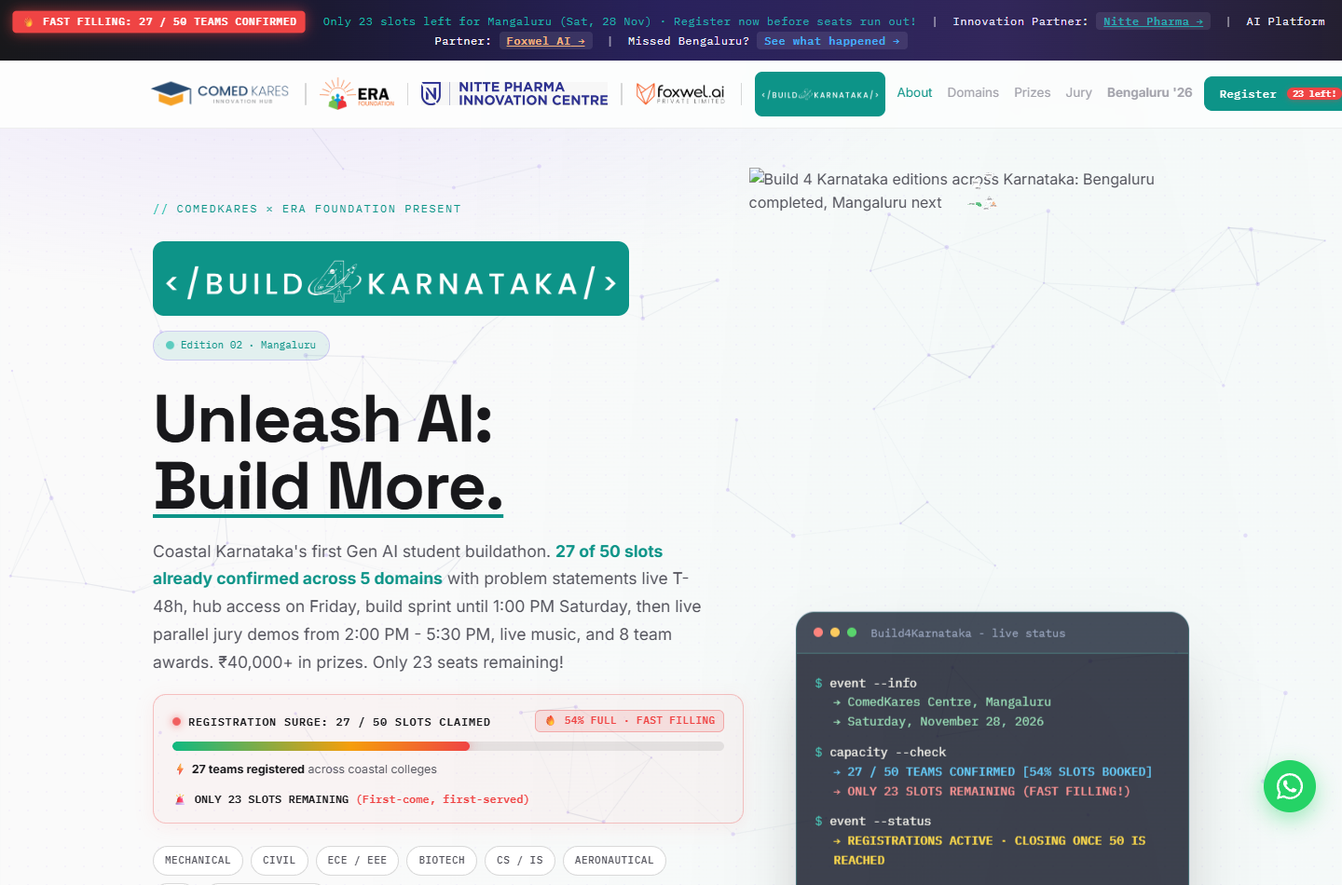
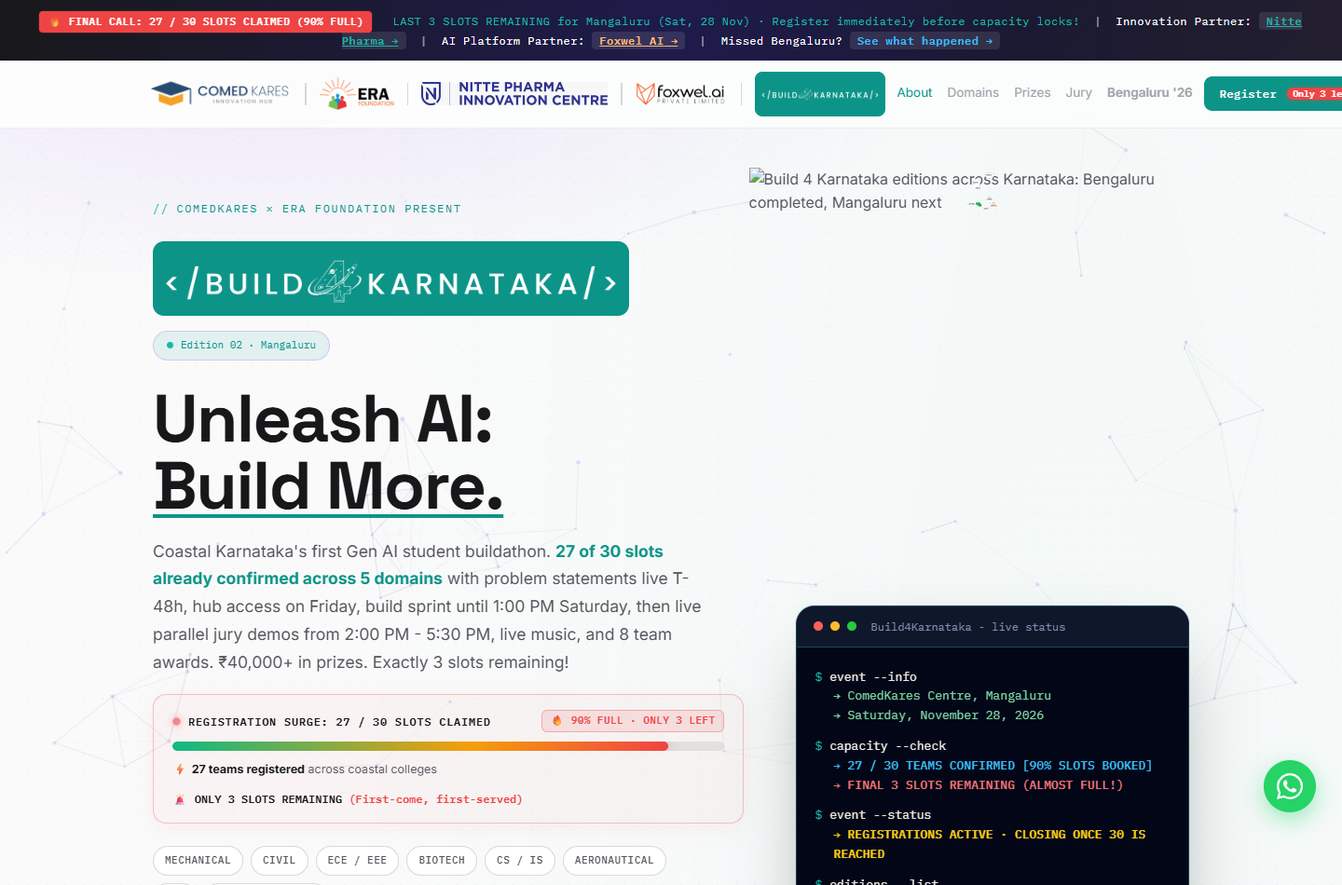
feat(b4k-mangaluru): calibrate capacity to 30 slots (27 confirmed, 3 remaining - 90% full)

diff --git a/netlify_deploy/index.html b/netlify_deploy/index.html
@@ -5,10 +5,10 @@
 <meta name="viewport" content="width=device-width, initial-scale=1.0">
 <title>Build 4 Karnataka Mangaluru | Unleash AI: Build More</title>
 <link rel="icon" type="image/png" href="https://build4karnataka.comedkares.com/favicon.png">
-<meta name="description" content="Build 4 Karnataka comes to Mangaluru. Coastal Karnataka's student Gen AI buildathon by ComedKares × ERA Foundation. 1 day, 50 slots, ₹40,000+ in prizes. Saturday, 28 November 2026 at the ComedKares Centre, Mangaluru.">
+<meta name="description" content="Build 4 Karnataka comes to Mangaluru. Coastal Karnataka's student Gen AI buildathon by ComedKares × ERA Foundation. 1 day, 30 slots, ₹40,000+ in prizes. Saturday, 28 November 2026 at the ComedKares Centre, Mangaluru.">
 <meta name="keywords" content="Build 4 Karnataka, Build4Karnataka Mangaluru, Mangalore Hackathon, Mangaluru AI Buildathon, ComedKares Buildathon, Student Hackathon Karnataka, AI Buildathon">
 <meta property="og:title" content="Build 4 Karnataka Mangaluru | Unleash AI: Build More">
-<meta property="og:description" content="Coastal Karnataka's student Gen AI buildathon. 1 day. 50 slots. ₹40,000+ prize pool. Saturday, 28 November 2026, ComedKares Centre, Mangaluru.">
+<meta property="og:description" content="Coastal Karnataka's student Gen AI buildathon. 1 day. 30 slots. ₹40,000+ prize pool. Saturday, 28 November 2026, ComedKares Centre, Mangaluru.">
 <meta property="og:type" content="website">
 <meta property="og:url" content="https://build4karnataka.comedkares.com/">
 <meta property="og:image" content="https://build4karnataka.comedkares.com/Share-preview.png">
@@ -793,7 +793,7 @@ img { max-width: 100%; height: auto; }
 
 <!-- Announcement bar -->
 <div class="announce-bar">
-  <span class="urgency-tag">🔥 FAST FILLING: 27 / 50 TEAMS CONFIRMED</span>&nbsp;&nbsp;<span class="gold">Only 23 slots left for Mangaluru (Sat, 28 Nov) · Register now before seats run out!</span>&nbsp;&nbsp;<span style="opacity:0.6;">|</span>&nbsp;&nbsp;Innovation Partner: <a href="https://nitte.edu.in/ngsmips/" target="_blank" rel="noopener" class="arrow" style="color:var(--accent-bright); text-decoration:underline; font-weight:600;">Nitte Pharma</a>&nbsp;&nbsp;<span style="opacity:0.6;">|</span>&nbsp;&nbsp;AI Platform Partner: <a href="https://www.foxwel.ai/" target="_blank" rel="noopener" class="arrow" style="color:#fdba74; text-decoration:underline; font-weight:600;">Foxwel AI</a>&nbsp;&nbsp;<span style="opacity:0.6;">|</span>&nbsp;&nbsp;Missed Bengaluru? <a href="bengaluru/" class="arrow">See what happened</a>
+  <span class="urgency-tag">🔥 FINAL CALL: 27 / 30 SLOTS CLAIMED (90% FULL)</span>&nbsp;&nbsp;<span class="gold">LAST 3 SLOTS REMAINING for Mangaluru (Sat, 28 Nov) · Register immediately before capacity locks!</span>&nbsp;&nbsp;<span style="opacity:0.6;">|</span>&nbsp;&nbsp;Innovation Partner: <a href="https://nitte.edu.in/ngsmips/" target="_blank" rel="noopener" class="arrow" style="color:var(--accent-bright); text-decoration:underline; font-weight:600;">Nitte Pharma</a>&nbsp;&nbsp;<span style="opacity:0.6;">|</span>&nbsp;&nbsp;AI Platform Partner: <a href="https://www.foxwel.ai/" target="_blank" rel="noopener" class="arrow" style="color:#fdba74; text-decoration:underline; font-weight:600;">Foxwel AI</a>&nbsp;&nbsp;<span style="opacity:0.6;">|</span>&nbsp;&nbsp;Missed Bengaluru? <a href="bengaluru/" class="arrow">See what happened</a>
 </div>
 
 <header id="siteHeader">
@@ -817,7 +817,7 @@ img { max-width: 100%; height: auto; }
       <a href="bengaluru/" style="font-weight:600;">Bengaluru '26</a>
     </nav>
     <div class="nav-right">
-      <a href="https://forms.gle/M2Q93UHtBamjD3GM8" class="btn btn-primary nav-cta" target="_blank" rel="noopener" style="position:relative;">Register <span class="nav-urgent-badge">23 left!</span></a>
+      <a href="https://forms.gle/M2Q93UHtBamjD3GM8" class="btn btn-primary nav-cta" target="_blank" rel="noopener" style="position:relative;">Register <span class="nav-urgent-badge">Only 3 left!</span></a>
       <button class="hamburger" id="hamburger" aria-label="Menu">
         <span></span><span></span><span></span>
       </button>
@@ -833,7 +833,7 @@ img { max-width: 100%; height: auto; }
   <a href="#jury" class="mobile-link">Jury</a>
   <a href="#faq" class="mobile-link">FAQ</a>
   <a href="bengaluru/" class="mobile-link">Bengaluru 2026 results</a>
-  <a href="https://forms.gle/M2Q93UHtBamjD3GM8" class="btn btn-primary btn-lg" target="_blank" rel="noopener" style="background:#ef4444; border-color:#ef4444; color:#fff;">Register your team (23 slots left!)</a>
+  <a href="https://forms.gle/M2Q93UHtBamjD3GM8" class="btn btn-primary btn-lg" target="_blank" rel="noopener" style="background:#ef4444; border-color:#ef4444; color:#fff;">Register your team (Last 3 slots left!)</a>
 </div>
 
 <main>
@@ -846,23 +846,23 @@ img { max-width: 100%; height: auto; }
       <img src="b4k_white_logo.png" alt="Build 4 Karnataka" style="display: block; height: 80px; margin: 24px 0 16px; max-width: 100%; object-fit: contain; background:var(--accent); padding:8px; border-radius:12px;">
       <div class="hero-badge"><span class="dot-live"></span>Edition 02 · Mangaluru</div>
       <h1 class="headline">Unleash AI:<br><span style="text-decoration: underline; text-decoration-color: var(--accent); text-decoration-thickness: 4px; text-underline-offset: 6px;">Build More.</span></h1>
-      <p class="sub">Coastal Karnataka's first Gen AI student buildathon. <strong style="color:var(--accent);">27 of 50 slots already confirmed across 5 domains</strong> with problem statements live T-48h, hub access on Friday, build sprint until 1:00 PM Saturday, then live parallel jury demos from 2:00 PM - 5:30 PM, live music, and 8 team awards. ₹40,000+ in prizes. Only 23 seats remaining!</p>
+      <p class="sub">Coastal Karnataka's first Gen AI student buildathon. <strong style="color:var(--accent);">27 of 30 slots already confirmed across 5 domains</strong> with problem statements live T-48h, hub access on Friday, build sprint until 1:00 PM Saturday, then live parallel jury demos from 2:00 PM - 5:30 PM, live music, and 8 team awards. ₹40,000+ in prizes. Exactly 3 slots remaining!</p>
 
       <!-- Live Capacity Surge Widget -->
       <div class="live-hype-card">
         <div class="hype-header">
           <div class="hype-left">
             <span class="hype-dot"></span>
-            <span class="hype-title">REGISTRATION SURGE: 27 / 50 SLOTS CLAIMED</span>
+            <span class="hype-title">REGISTRATION SURGE: 27 / 30 SLOTS CLAIMED</span>
           </div>
-          <span class="hype-badge">🔥 54% FULL · FAST FILLING</span>
+          <span class="hype-badge">🔥 90% FULL · ONLY 3 LEFT</span>
         </div>
-        <div class="hype-meter-track" title="27 of 50 slots claimed">
-          <div class="hype-meter-fill" style="width: 54%;"></div>
+        <div class="hype-meter-track" title="27 of 30 slots claimed">
+          <div class="hype-meter-fill" style="width: 90%;"></div>
         </div>
         <div class="hype-footer">
           <span class="hype-stat">⚡ <strong>27 teams registered</strong> across coastal colleges</span>
-          <span class="hype-alert">🚨 <strong>ONLY 23 SLOTS REMAINING</strong> (First-come, first-served)</span>
+          <span class="hype-alert">🚨 <strong>ONLY 3 SLOTS REMAINING</strong> (First-come, first-served)</span>
         </div>
       </div>
       <div class="branch-cluster">
@@ -876,7 +876,7 @@ img { max-width: 100%; height: auto; }
         <span class="branch-chip">Recent Passouts</span>
       </div>
       <div class="hero-cta">
-        <a href="https://forms.gle/M2Q93UHtBamjD3GM8" class="btn btn-primary btn-lg" target="_blank" rel="noopener">Register your team (23 slots left!) →</a>
+        <a href="https://forms.gle/M2Q93UHtBamjD3GM8" class="btn btn-primary btn-lg" target="_blank" rel="noopener">Register your team (Last 3 slots left!) →</a>
         <a href="bengaluru/" class="btn btn-ghost btn-lg">🏆 See what happened in Bengaluru →</a>
       </div>
       <span class="cd-label">// countdown to build day</span>
@@ -889,7 +889,7 @@ img { max-width: 100%; height: auto; }
       <div class="stat-strip">
         <div class="stat"><div class="k">Event date</div><div class="v">Sat, 28 Nov '26</div></div>
         <div class="stat"><div class="k">Venue</div><div class="v" style="font-size: 13.5px; line-height: 1.4;">ComedKares Centre,<br>Mangaluru</div></div>
-        <div class="stat highlight-stat"><div class="k" style="color:#ef4444;font-weight:700;">Live Seats Status</div><div class="v" style="color:#ef4444;font-weight:700;font-size:16px;">27 Booked · 23 Left!</div></div>
+        <div class="stat highlight-stat"><div class="k" style="color:#ef4444;font-weight:700;">Live Seats Status</div><div class="v" style="color:#ef4444;font-weight:700;font-size:16px;">27 Booked · 3 Left!</div></div>
         <div class="stat"><div class="k">Prize pool</div><div class="v">₹40,000+</div></div>
       </div>
     </div>
@@ -909,10 +909,10 @@ img { max-width: 100%; height: auto; }
           <div class="out ok">→ ComedKares Centre, Mangaluru</div>
           <div class="out ok">→ Saturday, November 28, 2026</div>
           <div style="margin-top:12px;"><span class="prompt">$</span> <span class="cmd">capacity --check</span></div>
-          <div class="out" style="color:#38bdf8;font-weight:600;">→ 27 / 50 TEAMS CONFIRMED [54% SLOTS BOOKED]</div>
-          <div class="out warn" style="color:#f87171;font-weight:700;">→ ONLY 23 SLOTS REMAINING (FAST FILLING!)</div>
+          <div class="out" style="color:#38bdf8;font-weight:600;">→ 27 / 30 TEAMS CONFIRMED [90% SLOTS BOOKED]</div>
+          <div class="out warn" style="color:#f87171;font-weight:700;">→ FINAL 3 SLOTS REMAINING (ALMOST FULL!)</div>
           <div style="margin-top:12px;"><span class="prompt">$</span> <span class="cmd">event --status</span></div>
-          <div class="out warn" style="color:#facc15;font-weight:600;">→ REGISTRATIONS ACTIVE · CLOSING ONCE 50 IS REACHED</div>
+          <div class="out warn" style="color:#facc15;font-weight:600;">→ REGISTRATIONS ACTIVE · CLOSING ONCE 30 IS REACHED</div>
           <div style="margin-top:12px;"><span class="prompt">$</span> <span class="cmd">editions --list</span></div>
           <div class="out ok">→ 01 Bengaluru · 7 Sep · COMPLETED ✓ <a href="bengaluru/" style="color:inherit;text-decoration:underline;">view</a></div>
           <div class="out ok">→ 02 Mangaluru · 28 Nov · UPCOMING</div>
@@ -954,7 +954,7 @@ img { max-width: 100%; height: auto; }
         <h3>ComedKares Centre, Mangaluru</h3>
         <p>Saturday, 28 November 2026. 12 coastal problem statements from local partners. Every registered team gets a seat until places run out.</p>
         <div class="edition-stats">
-          <div><b>50</b><span>Slots</span></div>
+          <div><b>30</b><span>Slots</span></div>
           <div><b>5</b><span>Domains</span></div>
           <div><b>₹40K+</b><span>Prize pool</span></div>
         </div>
@@ -1098,15 +1098,15 @@ img { max-width: 100%; height: auto; }
     <div class="section-head reveal">
       <span class="eyebrow">How it works</span>
       <h2>Register, and you're in.</h2>
-      <p>No screening and no shortlist. Every team that registers and pays gets a seat at the ComedKares Centre, Mangaluru, on a first-come, first-served basis. <strong>27 of 50 slots are already booked</strong>, leaving only 23 seats remaining. Register early before capacity is reached.</p>
+      <p>No screening and no shortlist. Every team that registers and pays gets a seat at the ComedKares Centre, Mangaluru, on a first-come, first-served basis. <strong>27 of 30 slots are already booked</strong>, leaving only 3 seats remaining. Register early before capacity is reached.</p>
     </div>
     <div class="funnel reveal">
       <div class="fstep spot">
         <div class="num">// 01</div>
-        <div style="display:inline-block; font-size:11px; font-weight:700; color:#fff; background:#ef4444; padding:2px 8px; border-radius:4px; margin-bottom:8px; font-family:var(--mono);">27 / 50 BOOKED</div>
+        <div style="display:inline-block; font-size:11px; font-weight:700; color:#fff; background:#ef4444; padding:2px 8px; border-radius:4px; margin-bottom:8px; font-family:var(--mono);">27 / 30 BOOKED</div>
         <h3>Register online</h3>
-        <p>Submit team details and pay ₹399 (GST incl.). First-come, first-served seat confirmation. Only 23 seats remaining.</p>
-        <span class="tag" style="color:#ef4444; font-weight:600;">Fast filling · Closes 16 Nov</span>
+        <p>Submit team details and pay ₹399 (GST incl.). First-come, first-served seat confirmation. Only 3 seats remaining.</p>
+        <span class="tag" style="color:#ef4444; font-weight:600;">90% Full · Closes at 30</span>
       </div>
       <div class="funnel-arrow">→</div>
       <div class="fstep spot">
@@ -1280,8 +1280,8 @@ img { max-width: 100%; height: auto; }
   <div class="wrap">
     <div class="section-head reveal"><span class="eyebrow">FAQ</span><h2>Questions teams ask.</h2></div>
     <div id="faqList">
-      <details><summary><span><span class="faq-tag">Eligibility</span> Who can take part?</span></summary><p>Undergraduate engineering students from any branch, MCA students, and recent passouts from the past academic year. Teams from across Karnataka are welcome. There is no screening: every team that registers gets a seat, first come, first served. 27 of 50 slots are already booked, so reserve your spot while seats remain.</p></details>
-      <details><summary><span><span class="faq-tag">Team</span> How big can a team be, and what does it cost?</span></summary><p>Teams of up to 4 members (maximum 4 members per team), all present on the day. One fee of ₹399 (GST incl.) covers the whole team. 27 teams are already confirmed out of 50 total slots. Registration will close on 16 Nov or earlier the moment all 50 slots are filled.</p></details>
+      <details><summary><span><span class="faq-tag">Eligibility</span> Who can take part?</span></summary><p>Undergraduate engineering students from any branch, MCA students, and recent passouts from the past academic year. Teams from across Karnataka are welcome. There is no screening: every team that registers gets a seat, first come, first served. 27 of 30 slots are already booked, so reserve your spot while the last 3 seats remain.</p></details>
+      <details><summary><span><span class="faq-tag">Team</span> How big can a team be, and what does it cost?</span></summary><p>Teams of up to 4 members (maximum 4 members per team), all present on the day. One fee of ₹399 (GST incl.) covers the whole team. 27 teams are already confirmed out of 30 total slots. Registration will close on 16 Nov or earlier the moment all 30 slots are filled.</p></details>
       <details><summary><span><span class="faq-tag">Skills</span> Do we need to know how to code?</span></summary><p>No. The event is built around Gen AI and vibe-code tools. Good thinking, prompting and teamwork matter more than raw coding.</p></details>
       <details><summary><span><span class="faq-tag">Venue</span> Where exactly is the venue?</span></summary><p>At the ComedKares Centre in Mangaluru. The full address and directions will be shared with every registered team.</p></details>
       <details><summary><span><span class="faq-tag">Prep</span> Can we start building before the event, and can we visit your hubs?</span></summary><p>Problem statements are released T-48 hours ahead on Thursday, 26 Nov at 10:00 AM. On Friday, 27 Nov (T-24h), all registered teams are invited to visit ComedKares Innovation Hubs across Karnataka from 9:00 AM to 6:00 PM to brainstorm, test hardware/APIs, and consult mentors before build day. Code should be developed during the buildathon window.</p></details>
@@ -1307,20 +1307,20 @@ img { max-width: 100%; height: auto; }
 <!-- ═════ REGISTER / SOCIAL ═════ -->
 <section class="social-section" id="register">
   <div class="wrap reveal">
-    <span class="eyebrow" style="color:#ef4444;">🚨 Fast Filling · Over 50% Seats Claimed</span>
+    <span class="eyebrow" style="color:#ef4444;">🚨 Final Call · 90% Seats Claimed</span>
     <h2>Get your team on the Mangaluru list before slots run out.</h2>
     <div class="hype-box-bottom" style="margin:20px auto 24px; background:rgba(239, 68, 68, 0.08); border:1.5px solid rgba(239, 68, 68, 0.4); border-radius:14px; padding:20px 24px; max-width:680px; text-align:left;">
       <div style="display:flex; justify-content:space-between; align-items:center; font-family:var(--mono); font-size:13px; font-weight:700; color:#f8fafc; margin-bottom:10px; flex-wrap:wrap; gap:8px;">
         <span style="display:inline-flex; align-items:center; gap:6px;">🔥 <span style="color:#f8fafc;">27 TEAMS REGISTERED</span></span>
-        <span style="color:#fca5a5; background:rgba(239,68,68,0.2); padding:3px 10px; border-radius:6px; border:1px solid rgba(239,68,68,0.45);">ONLY 23 SLOTS REMAINING</span>
+        <span style="color:#fca5a5; background:rgba(239,68,68,0.2); padding:3px 10px; border-radius:6px; border:1px solid rgba(239,68,68,0.45);">ONLY 3 SLOTS REMAINING</span>
       </div>
       <div style="height:10px; width:100%; background:rgba(255,255,255,0.12); border-radius:99px; overflow:hidden; margin-bottom:12px;">
-        <div style="height:100%; width:54%; background:linear-gradient(90deg, #10b981 0%, #f59e0b 60%, #ef4444 100%); border-radius:99px; box-shadow:0 0 12px rgba(239,68,68,0.6);"></div>
+        <div style="height:100%; width:90%; background:linear-gradient(90deg, #10b981 0%, #f59e0b 40%, #ef4444 100%); border-radius:99px; box-shadow:0 0 12px rgba(239,68,68,0.6);"></div>
       </div>
-      <p style="margin:0; font-size:14px; color:#cbd5e1; line-height:1.6;">27 student teams from coastal and statewide Karnataka engineering colleges have already confirmed their spots. There is no shortlisting or screening; registrations close permanently as soon as all 50 slots are filled.</p>
+      <p style="margin:0; font-size:14px; color:#cbd5e1; line-height:1.6;">27 student teams from coastal and statewide Karnataka engineering colleges have already confirmed their spots. There is no shortlisting or screening; registrations close permanently as soon as all 30 slots are filled.</p>
     </div>
     <div class="social-links">
-      <a href="https://forms.gle/M2Q93UHtBamjD3GM8" class="social-link reg-link" target="_blank" rel="noopener" style="background:#ef4444; border-color:#ef4444; color:#fff; font-weight:700; box-shadow:0 4px 16px rgba(239,68,68,0.35);"><span class="sl-icon">⚡</span> Register now (23 slots left)</a>
+      <a href="https://forms.gle/M2Q93UHtBamjD3GM8" class="social-link reg-link" target="_blank" rel="noopener" style="background:#ef4444; border-color:#ef4444; color:#fff; font-weight:700; box-shadow:0 4px 16px rgba(239,68,68,0.35);"><span class="sl-icon">⚡</span> Register now (Only 3 slots left)</a>
       <a href="https://wa.me/+916366879353?text=Hi%20Build4Karnataka%20team!%20I%20want%20to%20register%20for%20the%20Mangaluru%20edition." class="social-link" target="_blank" rel="noopener"><span class="sl-icon"><svg xmlns="http://www.w3.org/2000/svg" width="18" height="18" viewBox="0 0 24 24" fill="currentColor"><path d="M12.031 0C5.394 0 .012 5.385.012 12.022c0 2.122.553 4.195 1.602 6.02L.034 23.992l6.096-1.597c1.758 1.01 3.754 1.545 5.898 1.545 6.634 0 12.016-5.383 12.016-12.022C24.044 5.385 18.665 0 12.031 0zm.003 21.947c-1.802 0-3.56-.484-5.1-1.398l-.365-.216-3.791.994.996-3.699-.237-.377a9.99 9.99 0 0 1-1.528-5.234c0-5.522 4.494-10.016 10.021-10.016 5.525 0 10.018 4.494 10.018 10.016 0 5.525-4.493 10.018-10.02 10.018l-.004-.088zm5.495-7.514c-.302-.151-1.782-.879-2.059-.979-.277-.101-.479-.151-.681.151-.202.302-.78 1.002-.958 1.204-.177.202-.353.227-.655.076-.302-.151-1.274-.471-2.427-1.5-.898-.802-1.503-1.792-1.68-2.095-.177-.302-.019-.465.132-.616.136-.136.302-.353.454-.53.151-.177.202-.302.302-.504.101-.202.051-.378-.025-.53-.076-.151-.681-1.642-.932-2.247-.245-.591-.494-.51-.681-.519-.177-.008-.378-.008-.58-.008s-.53.076-.807.378c-.277.302-1.059 1.034-1.059 2.52 0 1.487 1.084 2.924 1.235 3.125.151.202 2.128 3.248 5.158 4.551.72.309 1.282.494 1.723.633.722.228 1.38.196 1.897.119.58-.087 1.782-.728 2.034-1.431.252-.704.252-1.309.177-1.431-.077-.126-.278-.202-.58-.353z"></path></svg></span> Ask us on WhatsApp</a>
       <a href="https://www.instagram.com/comed_kares/" class="social-link" target="_blank" rel="noopener"><span class="sl-icon"><svg xmlns="http://www.w3.org/2000/svg" width="18" height="18" viewBox="0 0 24 24" fill="currentColor"><path d="M12 2.163c3.204 0 3.584.012 4.85.07 3.252.148 4.771 1.691 4.919 4.919.058 1.265.069 1.645.069 4.849 0 3.205-.012 3.584-.069 4.849-.149 3.225-1.664 4.771-4.919 4.919-1.266.058-1.644.07-4.85.07-3.204 0-3.584-.012-4.849-.07-3.26-.149-4.771-1.699-4.919-4.92-.058-1.265-.07-1.644-.07-4.849 0-3.204.013-3.583.07-4.849.149-3.227 1.664-4.771 4.919-4.919 1.266-.057 1.645-.069 4.849-.069zm0-2.163c-3.259 0-3.667.014-4.947.072-4.358.2-6.78 2.618-6.98 6.98-.059 1.281-.073 1.689-.073 4.948 0 3.259.014 3.668.072 4.948.2 4.358 2.618 6.78 6.98 6.98 1.281.058 1.689.072 4.948.072 3.259 0 3.668-.014 4.948-.072 4.354-.2 6.782-2.618 6.979-6.98.059-1.28.073-1.689.073-4.948 0-3.259-.014-3.667-.072-4.947-.196-4.354-2.617-6.78-6.979-6.98-1.281-.059-1.69-.073-4.949-.073zm0 5.838c-3.403 0-6.162 2.759-6.162 6.162s2.759 6.163 6.162 6.163 6.162-2.759 6.162-6.163c0-3.403-2.759-6.162-6.162-6.162zm0 10.162c-2.209 0-4-1.79-4-4 0-2.209 1.791-4 4-4s4 1.791 4 4c0 2.21-1.791 4-4 4zm6.406-11.845c-.796 0-1.441.645-1.441 1.44s.645 1.44 1.441 1.44c.795 0 1.439-.645 1.439-1.44s-.644-1.44-1.439-1.44z"></path></svg></span> @comed_kares on Instagram</a>
       <a href="https://linkedin.com/company/comedkares" class="social-link" target="_blank" rel="noopener"><span class="sl-icon"><svg xmlns="http://www.w3.org/2000/svg" width="18" height="18" viewBox="0 0 24 24" fill="currentColor"><path d="M19 0h-14c-2.761 0-5 2.239-5 5v14c0 2.761 2.239 5 5 5h14c2.762 0 5-2.239 5-5v-14c0-2.761-2.238-5-5-5zm-11 19h-3v-11h3v11zm-1.5-12.268c-.966 0-1.75-.79-1.75-1.764s.784-1.764 1.75-1.764 1.75.79 1.75 1.764-.783 1.764-1.75 1.764zm13.5 12.268h-3v-5.604c0-3.368-4-3.113-4 0v5.604h-3v-11h3v1.765c1.396-2.586 7-2.777 7 2.476v6.759z"></path></svg></span> ComedKares on LinkedIn</a>

diff --git a/netlify_deploy/bengaluru/index.html b/netlify_deploy/bengaluru/index.html
@@ -547,7 +547,7 @@ img { max-width: 100%; height: auto; }
 
 <!-- Announcement bar -->
 <div class="announce-bar">
-  <span class="gold">🏆 Build 4 Karnataka Bengaluru was a massive success!</span>&nbsp;&nbsp;Next edition: <strong>Mangaluru</strong> (Sat 28 Nov) · <span style="color:#ef4444;font-weight:700;">🔥 27/50 slots booked (Only 23 left!)</span>&nbsp; <a href="../">Go to Mangaluru edition →</a>
+  <span class="gold">🏆 Build 4 Karnataka Bengaluru was a massive success!</span>&nbsp;&nbsp;Next edition: <strong>Mangaluru</strong> (Sat 28 Nov) · <span style="color:#ef4444;font-weight:700;">🔥 27/30 slots booked (Only 3 left!)</span>&nbsp; <a href="../">Go to Mangaluru edition →</a>
 </div>
 
 <header id="siteHeader">

diff --git a/management_update_report.md b/management_update_report.md
@@ -5,13 +5,14 @@
   - **Verified UI Implementation Screenshots**:
     ![Build 4 Karnataka Mangaluru Hero with Registration Surge Meter](assets/registration_hype_hero.png)
     ![Build 4 Karnataka Mangaluru Bottom Registration Urgency Callout](assets/registration_hype_register.png)
-  - **Registration Milestone & Real-time Scarcity Signals**: With 27 confirmed team registrations already received (exceeding 54% of the strict 50-team capacity limit), deployed statewide scarcity and urgency indicators across all primary conversion touchpoints on the live portal (https://build4karnataka.comedkares.com/).
-  - **Top Announcement Bar**: Deployed an animated high-voltage urgency pill (`🔥 FAST FILLING: 27 / 50 TEAMS CONFIRMED`) paired with prominent copy informing visitors that only 23 slots remain before registrations close.
-  - **Header Navigation & Mobile Drawer**: Integrated a glowing scarcity chip (`23 left!`) directly inside the desktop navigation 'Register' CTA and updated the mobile drawer button to highlight real-time seat availability.
-  - **Hero Live Capacity Progress Meter**: Engineered an interactive capacity widget between the hero value proposition and branch tags. Features a live pulsing radar dot, dynamic 54% multi-stop gradient progress bar (#10b981 to #f59e0b to #ef4444), and real-time counter highlighting 27 confirmed teams vs 23 remaining seats.
-  - **Stat Strip & Terminal Console Diagnostics**: Upgraded the On-site capacity metric to `Live Seats Status: 27 Booked · 23 Left!`. Added a new terminal command `$ capacity --check` returning `27 / 50 TEAMS CONFIRMED [54% SLOTS BOOKED]` with an active fast-filling warning.
-  - **How It Works & Bottom Register Callout**: Updated Step 01 with a `27 / 50 BOOKED` tag and inserted an executive high-contrast registration scarcity card above the Google Form button.
-  - **Bengaluru Archive Cross-Promotion**: Updated the global announcement bar on the Bengaluru archive page (`bengaluru/index.html`) to alert visitors that Mangaluru has already reached 27/50 teams.
+  - **Capacity Re-calibration & Real-time Scarcity Signals**: With 27 confirmed team registrations already received and event capacity calibrated to 30 slots (reaching 90% full capacity), deployed statewide scarcity and urgency indicators across all primary conversion touchpoints on the live portal (https://build4karnataka.comedkares.com/).
+  - **Top Announcement Bar**: Deployed an animated high-voltage urgency pill (`🔥 FINAL CALL: 27 / 30 SLOTS CLAIMED (90% FULL)`) paired with prominent copy informing visitors that the last 3 slots remain before registrations close permanently.
+  - **Header Navigation & Mobile Drawer**: Integrated a glowing scarcity chip (`Only 3 left!`) directly inside the desktop navigation 'Register' CTA and updated the mobile drawer button to highlight real-time seat availability.
+  - **Hero Live Capacity Progress Meter**: Engineered an interactive capacity widget between the hero value proposition and branch tags. Features a live pulsing radar dot, dynamic 90% multi-stop gradient progress bar (#10b981 to #f59e0b to #ef4444), and real-time counter highlighting 27 confirmed teams vs 3 remaining seats.
+  - **Stat Strip & Terminal Console Diagnostics**: Upgraded the On-site capacity metric to `Live Seats Status: 27 Booked · 3 Left!`. Added a new terminal command `$ capacity --check` returning `27 / 30 TEAMS CONFIRMED [90% SLOTS BOOKED]` with an active fast-filling warning.
+  - **How It Works & Bottom Register Callout**: Updated Step 01 with a `27 / 30 BOOKED` tag and inserted an executive high-contrast registration scarcity card above the Google Form button.
+  - **Bengaluru Archive Cross-Promotion**: Updated the global announcement bar on the Bengaluru archive page (`bengaluru/index.html`) to alert visitors that Mangaluru has reached 27/30 teams.
+  - **Master Agenda Document Alignment**: Updated `Build4Karnataka_Edition02_Mangaluru_Master_Agenda.docx` to reflect the 30-team capacity cap.
   - **Strict Copywriting Compliance**: Verified 0 em-dashes throughout all copy, UI labels, and documentation.
 
 - **Delivery Mode 2-Minute Slides Timeout Resolution, Native Fullscreen Projector & Pop-Out Dual-Display Speaker Window (07 November 2026)**:
@@ -217,7 +218,7 @@
 ## Features & Comparison
 | Feature | Details | Status |
 |---------|---------|--------|
-| **Edition 02 (Mangaluru) Registration Surge & Hype Integration** | Integrated real-time capacity and scarcity urgency signals across the live portal: 27 of 50 confirmed teams (54% capacity booked) and only 23 slots remaining. Implemented top announcement bar high-voltage tag, desktop header live scarcity badge, hero live capacity progress bar meter, terminal console capacity diagnostics, and high-contrast bottom callout box. | Complete (Deployed Live) |
+| **Edition 02 (Mangaluru) Registration Surge & Hype Integration** | Integrated real-time capacity and scarcity urgency signals across the live portal: 27 of 30 confirmed teams (90% capacity booked) and only 3 slots remaining. Implemented top announcement bar final call tag, desktop header live scarcity badge, hero live capacity progress bar meter (90% filled), terminal console capacity diagnostics, and high-contrast bottom callout box. | Complete (Deployed Live) |
 | **Delivery Mode 2-Min Reset Fix & Dual-Screen Projector Pop-Out** | Fixed Google Slides 2-min idle reset (removed delayms=3000, eager loading, wake lock). Added Fullscreen Projector mode and pop-out Speaker Window for laptop extended displays with synchronized live timer and phased talking track. | Complete (Deployed Live) |
 | **Statewide LMS Quality Audit & Mentor Feedback Report** | Comprehensive 10-hub audit across 81 active batches, 31 primary mentors, Mysuru 66.39% attendance risk resolution, 30-day programs archive, and session effectiveness breakdown with zero em-dashes. | Complete (Report Generated) |
 | **RPDT Weekly Program Report (RNSIT Kickoff)** | Official comprehensive weekly report for 22-31 Oct 2026 covering 32 cohorts, 41 sessions, 1,780 attendances (82.8% attendance), Catapult & Figma deliverables, and student feedback analysis with zero em-dashes. | Complete (Report Generated) |
@@ -1107,16 +1108,17 @@ Build 4 Karnataka has expanded statewide, moving its flagship edition from Benga
   - **Grand Finale & Felicitation (6:30 PM Onwards)**: Live prize distribution honoring 8 winning teams (1st, 2nd, and 3rd Podium Winners, plus 5 Domain Best Builds), followed by oversized dummy cheque ceremonies and group photography.
 - **Executive Word Agenda Document Published**: Authored and exported a publication-grade Microsoft Word document (`Build4Karnataka_Edition02_Mangaluru_Master_Agenda.docx`) formatted with ComedKares and ERA Foundation brand styling (Navy `#0F172A`, Teal `#0D9488`, and Slate `#F8FAFC`), custom cell padding, alternating row highlights, and full operational directives. Available for sharing with leadership, partner institutions, juries, and student coordinators at `D:\Anti_spamm\Build4Karnataka_Edition02_Mangaluru_Master_Agenda.docx`.
 
-### 13. Build 4 Karnataka Mangaluru Registration Surge & Scarcity Hype System (27/50 Confirmed, 23 Left)
-- **Real-Time Registration Milestone**: Confirmed team registrations reached 27 out of the 50 available seats, officially crossing 54% of total event capacity.
+### 13. Build 4 Karnataka Mangaluru Registration Surge & Scarcity Hype System (27/30 Confirmed, 3 Left)
+- **Real-Time Registration Milestone**: Confirmed team registrations reached 27 out of 30 available seats, officially crossing 90% of total event capacity.
 - **Urgency & Hype Components Deployed**:
-  - **Top Announcement Bar**: Animated red urgency pill (`🔥 FAST FILLING: 27 / 50 TEAMS CONFIRMED`) with real-time slot alert.
-  - **Header Nav Register CTA**: Integrated a glowing `23 left!` badge to prompt instant action before seats fill up.
-  - **Hero Live Capacity Progress Meter**: Multi-stop gradient bar (54% filled), pulsating live radar beacon, and exact seat breakdown.
-  - **Interactive Terminal Console**: Added `$ capacity --check` command displaying live slot status and fast-filling warnings.
-  - **Section 01 ('Register Online') in How It Works**: Updated with a `27 / 50 BOOKED` tag and 23 seats remaining notice.
-  - **Bottom Registration Section**: Added an executive registration surge callout box with progress bar and urgent CTA `⚡ Register now (23 slots left)`.
+  - **Top Announcement Bar**: Animated red urgency pill (`🔥 FINAL CALL: 27 / 30 SLOTS CLAIMED (90% FULL)`) with immediate closing alert.
+  - **Header Nav Register CTA**: Integrated a glowing `Only 3 left!` badge to prompt instant action before seats fill up.
+  - **Hero Live Capacity Progress Meter**: Multi-stop gradient bar (90% filled), pulsating live radar beacon, and exact seat breakdown (27 confirmed vs 3 left).
+  - **Interactive Terminal Console**: Added `$ capacity --check` command displaying live slot status and final warning that registration closes at 30 teams.
+  - **Section 01 ('Register Online') in How It Works**: Updated with a `27 / 30 BOOKED` tag and 3 seats remaining notice.
+  - **Bottom Registration Section**: Added an executive registration surge callout box with 90% progress bar and urgent CTA `⚡ Register now (Only 3 slots left)`.
   - **Cross-Edition Promotion**: Synchronized the Bengaluru archive page (`bengaluru/index.html`) announcement ticker with Mangaluru's real-time slot availability.
+  - **Document Synchronization**: Aligned `Build4Karnataka_Edition02_Mangaluru_Master_Agenda.docx` with the 30-team operational capacity.
 
 - **Verified Visual Implementation**:
   ![Build 4 Karnataka Mangaluru Hero with Registration Surge Meter](assets/registration_hype_hero.png)

diff --git a/team_update_instructions.md b/team_update_instructions.md
@@ -864,16 +864,16 @@ The Build 4 Karnataka web portal has officially launched the **Mangaluru Edition
    - The complete schedule has been compiled into an executive Microsoft Word document: `Build4Karnataka_Edition02_Mangaluru_Master_Agenda.docx`.
    - Team members, mentors, and outreach coordinators can share this document directly with participating institutions, college principals, faculty mentors, and student teams.
 
-### Update - Mangaluru Registration Surge & Scarcity Campaign (27/50 Teams Confirmed)
-1. **Current Registration Surge**: Exactly 27 team registrations have been received and confirmed out of the 50 available slots (over 54% full). Only 23 team slots remain open!
+### Update - Mangaluru Registration Surge & Scarcity Campaign (27/30 Teams Confirmed - 90% Full)
+1. **Current Registration Surge & Adjusted Cap**: With total slots calibrated to 30 teams and 27 team registrations confirmed, the event is 90% full. Exactly 3 slots remain open!
 2. **Website Urgency & Hype Elements Activated**:
-   - **Top Announcement Bar**: Now alerts visitors with `🔥 FAST FILLING: 27 / 50 TEAMS CONFIRMED · Only 23 slots left!`.
-   - **Header CTA**: Displays a live `23 left!` badge to prompt instant action.
-   - **Hero Capacity Meter**: Visual progress bar showing 54% filled with a pulsing live status dot.
-   - **Terminal Console**: Includes a live `$ capacity --check` command showing 27 confirmed and 23 remaining slots.
-   - **Bottom Callout Box**: Prominent scarcity box highlighting that seats will close permanently once 50 teams are reached.
+   - **Top Announcement Bar**: Now alerts visitors with `🔥 FINAL CALL: 27 / 30 SLOTS CLAIMED (90% FULL) · LAST 3 SLOTS REMAINING!`.
+   - **Header CTA**: Displays a live `Only 3 left!` badge to prompt immediate action.
+   - **Hero Capacity Meter**: Visual progress bar showing 90% filled with a pulsing live status dot.
+   - **Terminal Console**: Includes a live `$ capacity --check` command showing 27 confirmed and 3 remaining slots.
+   - **Bottom Callout Box**: Prominent scarcity box highlighting that registrations close permanently as soon as all 30 slots are filled.
 3. **Team Outreach Directives**:
-   - In all college outreach, WhatsApp messages, and phone calls, emphasize urgency: *"Over 50% of seats are already booked (27 of 50 confirmed). With only 23 slots left on a first-come, first-served basis, please advise your student teams to complete their Google Form registrations immediately before the 50-team cap is reached."*
+   - In all college outreach, WhatsApp messages, and phone calls, emphasize peak urgency: *"90% of seats are already booked (27 of 30 confirmed). With only 3 slots left on a strict first-come, first-served basis, please advise your student teams to complete their Google Form registrations immediately before the 30-team cap is reached."*
    - Share direct registration link: https://forms.gle/M2Q93UHtBamjD3GM8 or https://build4karnataka.comedkares.com/.
 
 ![Mangaluru Hero Registration Surge](assets/registration_hype_hero.png)
